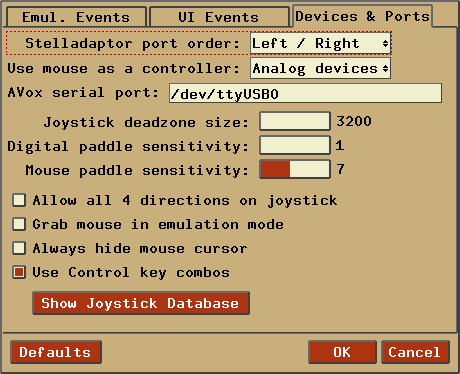
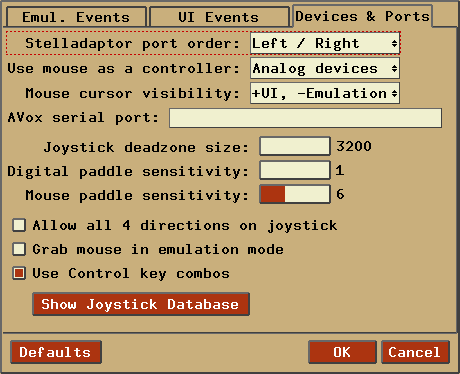
Updated webpage for upcoming 4.6.5 release.

diff --git a/docs/index.html b/docs/index.html
@@ -10,7 +10,7 @@
   <br><br>
   <center><h2><b>A multi-platform Atari 2600 VCS emulator</b></h2></center>
 
-  <center><h4><b>Release 4.6.1</b></h4></center>
+  <center><h4><b>Release 4.6.5</b></h4></center>
   <br><br>
 
   <center><h2><b>User's Guide</b></h2></center>
@@ -54,7 +54,7 @@
 
   <br><br><br>
 
-  <center><b>February 1999 - April 2015</b></center>
+  <center><b>February 1999 - September 2015</b></center>
     <center><b>The Stella Team</b></center>
   <center><b><a href="http://stella.sourceforge.net">Stella Homepage</a></b></center>
 
@@ -353,7 +353,7 @@
   <p>
   <h3><b><u>Windows</u></b></h3>
 
-  <p>The Windows version of Stella is designed to work on Windows XP_SP3/Vista/7/8
+  <p>The Windows version of Stella is designed to work on Windows XP_SP3/Vista/7/8/10
   with the following:</p>
 
   <ul>
@@ -1972,8 +1972,8 @@
     </tr>
 
     <tr>
-      <td><pre>-hidecursor &lt;1|0&gt;</pre></td>
-      <td>Always hide the mouse cursor, or show it when appropriate.</td>
+      <td><pre>-cursor &lt;0|1|2|3&gt;</pre></td>
+      <td>Set mouse cursor state in UI/emulation modes.</td>
     </tr>
 
     <tr>
@@ -2610,13 +2610,13 @@
           <tr><th>Item</th><th>Brief description</th><th>For more information,<br>see <a href="#CommandLine">CommandLine</a></th></tr>
           <tr><td>Stelladaptor port order</td><td>Specifies which virtual port each Stelladaptor/2600-daptor uses (See <b>Advanced Configuration - <a href="#Adaptor">Stelladaptor/2600-daptor Support</a></b>)</td><td>-saport</td></tr>
           <tr><td>Use mouse as ...</td><td>Allow the mouse to emulate various controllers</td><td>-usemouse</td></tr>
+          <tr><td>Mouse cursor visibility</td><td>Show/hide cursor depending on current state</td><td>-cursor</td></tr>
           <tr><td>AVox serial port</td><td>Described in further detail in <b>Advanced Configuration - <a href="#AtariVox">AtariVox/SaveKey Support</a></b> </td><td>-avoxport</td></tr>
           <tr><td>Joy deadzone size</td><td>Deadzone area for axes on joysticks/gamepads</td><td>-joydeadzone</td></tr>
           <tr><td>Digital paddle sensitivity</td><td>Sensitivity used when emulating a paddle using a digital device</td><td>-dsense</td></tr>
           <tr><td>Mouse paddle sensitivity</td><td>Sensitivity used when emulating a paddle using a mouse</td><td>-msense</td></tr>
           <tr><td>Allow all 4 ...</td><td>Allow all 4 joystick directions to be pressed simultaneously</td><td>-joyallow4</td></tr>
           <tr><td>Grab mouse ...</td><td>Keep mouse in window in emulation mode</td><td>-grabmouse</td></tr>
-          <tr><td>Always hide mouse ...</td><td>Completely disable showing the mouse cursor</td><td>-hidemouse</td></tr>
           <tr><td>Use Control key combos</td><td>Enable using Control key in keyboard actions</td><td>-ctrlcombo</td></tr>
           <tr><td>Show Joystick Database</td><td>Show all joysticks that Stella knows about, with the option to remove them</td><td>&nbsp;</td></tr>
         </table>

diff --git a/docs/debugger.html b/docs/debugger.html
@@ -662,7 +662,7 @@ listfunctions - List user-defined functions
          pgfx - Mark 'PGFX' range in disassembly
         print - Evaluate/print expression xx in hex/dec/binary
           ram - Show ZP RAM, or set address xx to yy1 [yy2 ...]
-        reset - Reset 6507 to init vector (excluding TIA/RIOT)
+        reset - Reset system to power-on state
        rewind - Rewind state to last step/trace/scanline/frame
          riot - Show RIOT timer/input status
           rom - Set ROM address xx to yy1 [yy2 ...]

diff --git a/downloads.php b/downloads.php
@@ -15,52 +15,52 @@
 <table BORDER=0 CELLPADDING=6 WIDTH="100%">
 
 	<tr>
-		<td><b>Latest&nbsp;Release (v/ 4.6.1)</b></td>
+		<td><b>Latest&nbsp;Release (v/ 4.6.5)</b></td>
 		<td>&nbsp;</td>
 	</tr>
 
 	<tr>
-		<td BGCOLOR="#CCCCCC"><a href="http://prdownloads.sourceforge.net/stella/Stella-4.6.1-win32.exe?download">Stella-4.6.1-win32.exe</a></td>
-		<td BGCOLOR="#FFCC99">Binary installer (exe) for 32-bit Windows XP_SP3/Vista/7/8</td>
+		<td BGCOLOR="#CCCCCC"><a href="http://prdownloads.sourceforge.net/stella/Stella-4.6.5-win32.exe?download">Stella-4.6.5-win32.exe</a></td>
+		<td BGCOLOR="#FFCC99">Binary installer (exe) for 32-bit Windows XP_SP3/Vista/7/8/10</td>
 	</tr>
 
 	<tr>
-		<td BGCOLOR="#CCCCCC"><a href="http://prdownloads.sourceforge.net/stella/Stella-4.6.1-x64.exe?download">Stella-4.6.1-x64.exe</a></td>
-		<td BGCOLOR="#FFCC99">Binary installer (exe) for 64-bit Windows Vista/7/8</td>
+		<td BGCOLOR="#CCCCCC"><a href="http://prdownloads.sourceforge.net/stella/Stella-4.6.5-x64.exe?download">Stella-4.6.5-x64.exe</a></td>
+		<td BGCOLOR="#FFCC99">Binary installer (exe) for 64-bit Windows Vista/7/8/10</td>
 	</tr>
 
 	<tr>
-		<td BGCOLOR="#CCCCCC"><a href="http://prdownloads.sourceforge.net/stella/Stella-4.6.1-windows.zip?download">Stella-4.6.1-windows.zip</a></td>
-		<td BGCOLOR="#FFCC99">Binary ZIP (32-bit and 64-bit) for Windows XP_SP3   /Vista/7/8</td>
+		<td BGCOLOR="#CCCCCC"><a href="http://prdownloads.sourceforge.net/stella/Stella-4.6.5-windows.zip?download">Stella-4.6.5-windows.zip</a></td>
+		<td BGCOLOR="#FFCC99">Binary ZIP (32-bit and 64-bit) for Windows XP_SP3   /Vista/7/8/10</td>
 	</tr>
 
 	<tr>
-		<td BGCOLOR="#CCCCCC"><a href="http://prdownloads.sourceforge.net/stella/Stella-4.6.1-macosx.dmg?download">Stella-4.6.1-macosx.dmg</a></td>
+		<td BGCOLOR="#CCCCCC"><a href="http://prdownloads.sourceforge.net/stella/Stella-4.6.5-macosx.dmg?download">Stella-4.6.5-macosx.dmg</a></td>
 		<td BGCOLOR="#FFCC99">Binary DMG for MacOS X (64-bit, Intel CPU/10.7+ only)</td>
 	</tr>
 
 	<tr>
-		<td BGCOLOR="#CCCCCC"><a href="http://prdownloads.sourceforge.net/stella/stella_4.6.1-1_i386.deb?download">stella_4.6.1-1_i386.deb</a></td>
-		<td BGCOLOR="#FFCC99">Binary 32-bit DEB for Ubuntu 14.10 (Utopic Unicorn)</td>
+		<td BGCOLOR="#CCCCCC"><a href="http://prdownloads.sourceforge.net/stella/stella_4.6.5-1_i386.deb?download">stella_4.6.5-1_i386.deb</a></td>
+		<td BGCOLOR="#FFCC99">Binary 32-bit DEB for Ubuntu 15.04 (Vivid Vervet)</td>
 	</tr>
 
 	<tr>
-		<td BGCOLOR="#CCCCCC"><a href="http://prdownloads.sourceforge.net/stella/stella_4.6.1-1_amd64.deb?download">stella_4.6.1-1_amd64.deb</a></td>
-		<td BGCOLOR="#FFCC99">Binary 64-bit DEB for Ubuntu 14.10 (Utopic Unicorn)</td>
+		<td BGCOLOR="#CCCCCC"><a href="http://prdownloads.sourceforge.net/stella/stella_4.6.5-1_amd64.deb?download">stella_4.6.5-1_amd64.deb</a></td>
+		<td BGCOLOR="#FFCC99">Binary 64-bit DEB for Ubuntu 15.04 (Vivid Vervet)</td>
 	</tr>
 
 	<tr>
-		<td BGCOLOR="#CCCCCC"><a href="http://prdownloads.sourceforge.net/stella/stella-4.6.1-2.i386.rpm?download">stella-4.6.1-2.i386.rpm</a></td>
+		<td BGCOLOR="#CCCCCC"><a href="http://prdownloads.sourceforge.net/stella/stella-4.6.5-2.i386.rpm?download">stella-4.6.5-2.i386.rpm</a></td>
 		<td BGCOLOR="#FFCC99">Binary 32-bit RPM for Linux (generated by 'alien')</td>
 	</tr>
 
 	<tr>
-		<td BGCOLOR="#CCCCCC"><a href="http://prdownloads.sourceforge.net/stella/stella-4.6.1-2.x86_64.rpm?download">stella-4.6.1-2.x86_64.rpm</a></td>
+		<td BGCOLOR="#CCCCCC"><a href="http://prdownloads.sourceforge.net/stella/stella-4.6.5-2.x86_64.rpm?download">stella-4.6.5-2.x86_64.rpm</a></td>
 		<td BGCOLOR="#FFCC99">Binary 64-bit RPM for Linux (generated by 'alien')</td>
 	</tr>
 
 	<tr>
-		<td BGCOLOR="#CCCCCC"><a href="http://prdownloads.sourceforge.net/stella/stella-4.6.1-src.tar.gz?download">stella-4.6.1-src.tar.gz</a></td>
+		<td BGCOLOR="#CCCCCC"><a href="http://prdownloads.sourceforge.net/stella/stella-4.6.5-src.tar.gz?download">stella-4.6.5-src.tar.gz</a></td>
 		<td BGCOLOR="#FFCC99">Source code tarball for all systems</td>
 	</tr>
 

diff --git a/stellanews.php b/stellanews.php
@@ -12,6 +12,50 @@
 			<div class="content">
 
 <!---------------------------------------------------------------->
+<H4>September 26, 2015</H4>
+Stella release 4.6.5 for Linux, MacOS X and Windows is now available.
+<ul>
+<li>Added mappable events for toggling TV color/BW, left difficulty A/B
+    and right difficulty A/B.  This means that one key, joystick button,
+    etc. can be used to toggle each event.  Thanks to Buzbard of AtariAge
+    for the suggestion.</li>
+
+<li>Added ability to edit values in more widgets in the debugger.  For
+    now, this applies mainly to the various decimal and binary fields.
+    More widgets will be made editable in future releases.</li>
+
+<li>The TIA now emulates the jitter that occurs when scanline counts
+    are not consistent frame-over-frame.  Also, the DPC+ scheme now
+    emulates jitter that can occur when using its Fractional Datafetchers
+    if the DFxFRACINC registers are not re-initialized every frame.
+    Special thanks to SpiceWare for this implementation.</li>
+
+<li>Tweaked 'MDM' scheme autodetection to detect that the identification
+    string can be in either bank 0 or bank 1.</li>
+
+<li>Changed 'hidecursor' commandline argument (and associated UI item) to
+    'cursor'.  The new argument allows to set mouse cursor visibility
+    separately for both UI and emulation modes.</li>
+
+<li>Fixed snapshot bug most noticeable in MacOSX, where taking a snapshot
+    of a TIA image sometimes left parts of the UI onscreen (and in the
+    resulting picture).</li>
+
+<li>Fixed memory leak; the game console wasn't being closed after exiting
+    a ROM.</li>
+
+<li>For the Windows port: added an application icon for Stella in the
+    Control Panel "Add/Remove Programs" list.</li>
+
+<li>For the OSX port: Updated build scripts to be compatible with Xcode 7.</li>
+
+<li>Updated included PNG library to latest stable version.</li>
+
+</ul>
+
+-Have fun!
+
+
 <H4>April 22, 2015</H4>
 Stella release 4.6.1 for Linux, MacOS X and Windows is now available.
 <ul>
@@ -20,8 +64,6 @@ Stella release 4.6.1 for Linux, MacOS X and Windows is now available.
 
 <li>Updated UNIX configure script to work with GCC 5.x compilers.</li>
 </ul>
-
--Have fun!
 
 
 <H4>March 21, 2015</H4>

diff --git a/faq.php b/faq.php
@@ -46,7 +46,7 @@ settings file, and restart the application.  The
 settings file is stored in different places depending on the operating system
 you're using:</p>
 <ul>
-  <li><b>Windows XP_SP3/Vista/7/8:</b>&nbsp;&nbsp;Open Windows Explorer and type
+  <li><b>Windows XP_SP3/Vista/7/8/10:</b>&nbsp;&nbsp;Open Windows Explorer and type
 '%appdata%\stella' into the address bar. This will bring you to
 the directory where Stella stores its settings.  Find and delete/rename
 the file named 'stella.ini'.</li>

diff --git a/footer.php b/footer.php
@@ -2,4 +2,4 @@
 <a href="http://www.bradfordmott.com">Bradford W. Mott</a>, 
 <a href="http://minbar.org">Stephen Anthony</a> and 
 <a href="theteam.php">The Stella Team</a>
-<br/>	Site Updated September 22, 2015</p>
+<br/>	Site Updated September 26, 2015</p>

diff --git a/development.php b/development.php
@@ -132,7 +132,7 @@ rpmbuild -ba stella.spec</div>
 </ol>
 
 <br/>
-<h3><u>Windows XP_SP3/Vista/7/8</u></h3>
+<h3><u>Windows XP_SP3/Vista/7/8/10</u></h3>
 <ol>
 
   <li><p>Getting the required tools:
